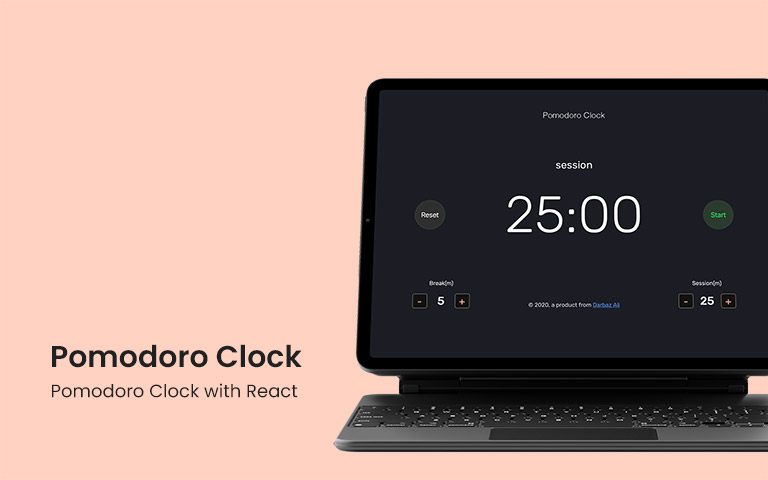
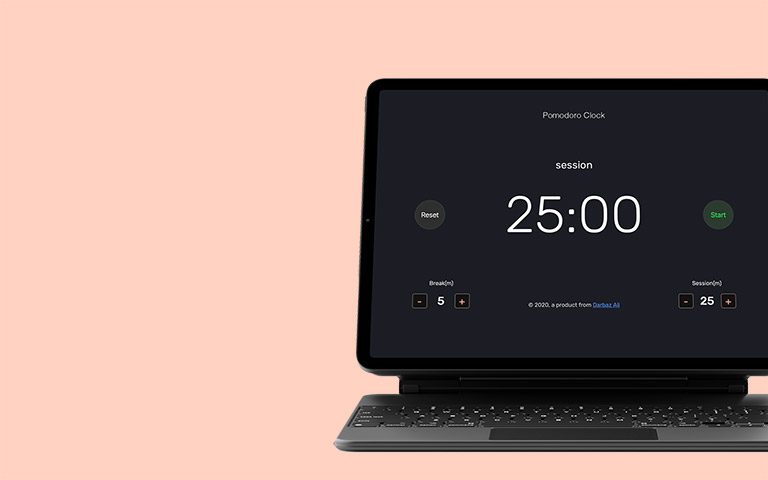
redesign projects

Changed region(s): [[0.0625, 0.7188, 0.4062, 0.8438]]

diff --git a/src/components/ProjectCard.js b/src/components/ProjectCard.js
@@ -1,16 +1,26 @@
 import React from 'react'
 import { Link } from 'react-router-dom'
 
-const ProjectCard = ({ title, image, link }) => {
+const ProjectCard = ({ title, image, link, description, linkDesc }) => {
   return (
     <div className='project'>
       {/\b(http|https)/.test(link) ? (
         <a href={link} rel='noreferrer' target='_blank'>
-          <img src={image} alt={title} width='680' height='426' />
+          <img src={image} alt={title} width='768' height='480' />
+          <div className='project-content'>
+            <h3>{title}</h3>
+            <p>{description}</p>
+            <p>{linkDesc}</p>
+          </div>
         </a>
       ) : (
         <Link to={link}>
-          <img src={image} alt={title} width='680' height='426' />
+          <img src={image} alt={title} width='768' height='480' />
+          <div className='project-content'>
+            <h3>{title}</h3>
+            <p>{description}</p>
+            <p>{linkDesc}</p>
+          </div>
         </Link>
       )}
     </div>

diff --git a/src/styles/_projects.scss b/src/styles/_projects.scss
@@ -11,6 +11,25 @@
     margin-bottom: 1rem;
     overflow: hidden;
 
+    & .project-content {
+      position: absolute;
+      z-index: 20;
+      left: 20px;
+      bottom: 30px;
+      width: 40%;
+      & h3 {
+        font-weight: 600;
+        max-width: 160px;
+        margin-bottom: 1rem;
+        font-size: 1.4rem;
+      }
+      & p {
+        line-height: 24px;
+        color: $dark;
+        margin-bottom: 0;
+      }
+    }
+
     @include breakpoint-up(large) {
       width: calc(50% - 0.5rem);
     }

diff --git a/src/styles/style.css b/src/styles/style.css
@@ -291,6 +291,27 @@ CASE STUDIES
   overflow: hidden;
 }
 
+.projects .project .project-content {
+  position: absolute;
+  z-index: 20;
+  left: 20px;
+  bottom: 30px;
+  width: 40%;
+}
+
+.projects .project .project-content h3 {
+  font-weight: 600;
+  max-width: 160px;
+  margin-bottom: 1rem;
+  font-size: 1.4rem;
+}
+
+.projects .project .project-content p {
+  line-height: 24px;
+  color: #1f2122;
+  margin-bottom: 0;
+}
+
 @media (min-width: 64em) {
   .projects .project {
     width: calc(50% - 0.5rem);

diff --git a/src/sections/ProjectHikeWithMe.js b/src/sections/ProjectHikeWithMe.js
@@ -2,7 +2,13 @@ import React from 'react'
 import ProjectCard from '../components/ProjectCard'
 import hwmImage from '../assets/JPEG/HWM.jpg'
 const ProjectHikeWithMe = () => (
-  <ProjectCard image={hwmImage} title='Hike With Me' link='/hike-with-me' />
+  <ProjectCard
+    image={hwmImage}
+    title='Hike With Me'
+    link='/hike-with-me'
+    description='Booking Hiking Events'
+    linkDesc='UX/UI Design Case'
+  />
 )
 
 export default ProjectHikeWithMe

diff --git a/src/sections/ProjectQuadCaptcha.js b/src/sections/ProjectQuadCaptcha.js
@@ -3,7 +3,13 @@ import ProjectCard from '../components/ProjectCard'
 import qcImage from '../assets/JPEG/QUAD_CAPTCHA.jpg'
 
 const ProjectQuadCaptcha = () => (
-  <ProjectCard image={qcImage} link='/quad-captcha' title='QUAD CAPTCHA' />
+  <ProjectCard
+    image={qcImage}
+    link='/quad-captcha'
+    title='QUAD CAPTCHA'
+    description='Bot Detector App'
+    linkDesc='MVP Case Study'
+  />
 )
 
 export default ProjectQuadCaptcha

diff --git a/src/sections/ProjectMIConverter.js b/src/sections/ProjectMIConverter.js
@@ -5,8 +5,10 @@ import M_I_Converter_API from '../assets/JPEG/M_I_CONVERTER_API.jpg'
 const ProjectMIConverter = () => (
   <ProjectCard
     image={M_I_Converter_API}
-    title='Metric/Imperial Converter API'
+    title='M/I Unit Converter API'
     link='http://m-i-converter.herokuapp.com/'
+    description='Unit Converter REST API'
+    linkDesc='Project Website'
   />
 )
 

diff --git a/src/sections/ProjectHeatMap.js b/src/sections/ProjectHeatMap.js
@@ -5,8 +5,9 @@ import heatMapD3 from '../assets/JPEG/HEAT_MAP_D3.jpg'
 const ProjectHeatMap = () => (
   <ProjectCard
     image={heatMapD3}
-    title='Monthly Global Land-Surface Temperature'
+    title='Monthly Global Temperature'
     link='https://codepen.io/Darbaz/pen/bGEyLPQ'
+    description='Data Visualization with D3'
   />
 )
 

diff --git a/src/sections/ProjectURLShortener.js b/src/sections/ProjectURLShortener.js
@@ -7,6 +7,8 @@ const ProjectURLShortener = () => (
     image={bit8Url}
     title='8bit-URL Shortener'
     link='https://bit8-url.herokuapp.com'
+    description='URL Shortener App'
+    linkDesc='Project Website'
   />
 )
 

diff --git a/src/sections/ProjectPomodoroClock.js b/src/sections/ProjectPomodoroClock.js
@@ -6,6 +6,7 @@ const ProjectPomodoroClock = () => (
     image={pomodoroClock}
     title='Pomodoro Clock'
     link='https://codepen.io/Darbaz/pen/KKVQXPj'
+    description='Pomodoro Clock with React'
   />
 )
 
